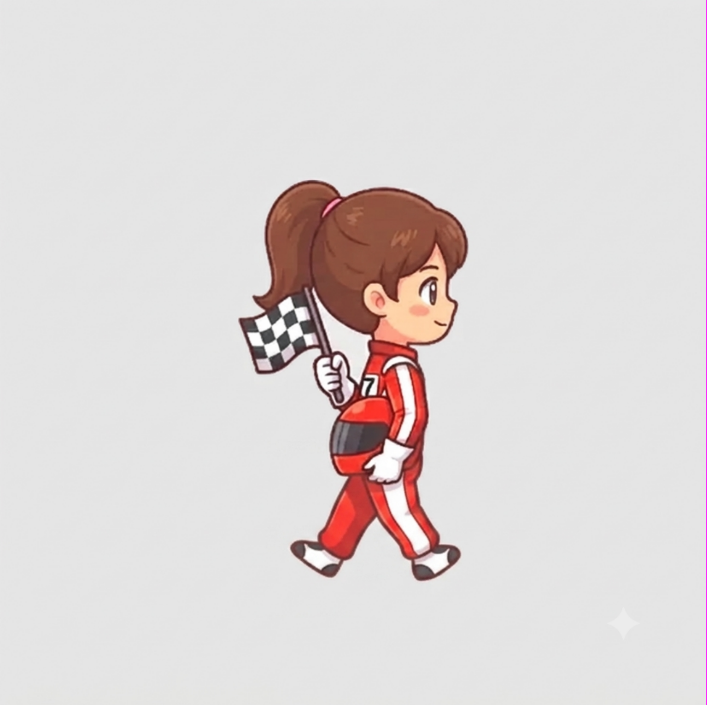
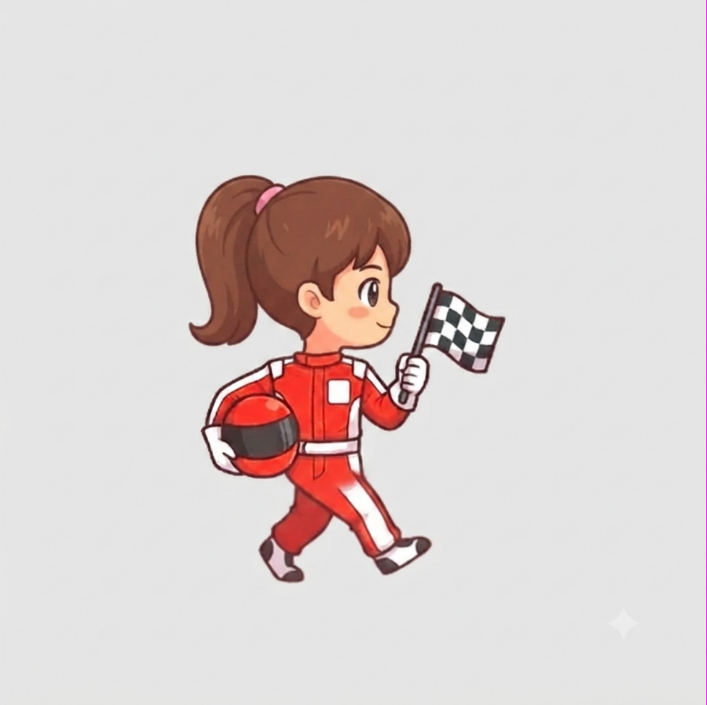
레이서 여자아이 옆모습 다시 만들기: 몸·다리·얼굴이 모두 같은 방향(남자 레이서 몸에 여자아이 머리)

Changed region(s): [[0.2489, 0.2496, 0.7157, 0.8426]]

diff --git a/js/data/character-sprites.js b/js/data/character-sprites.js
@@ -536,10 +536,10 @@ window.MP_CHAR_SPRITES = {
    "right": [
     461,
     4,
-    167,
-    291,
-    109.5,
-    291
+    228,
+    297,
+    92.2,
+    297
    ],
    "up": [
     233,
@@ -564,10 +564,10 @@ window.MP_CHAR_SPRITES = {
     "right": [
      461,
      4,
-     167,
-     290,
-     109.4,
-     290
+     228,
+     294,
+     93.5,
+     294
     ],
     "up": [
      233,
@@ -1451,4 +1451,4 @@ window.MP_CHAR_SPRITES = {
   }
  }
 };
-window.MP_CHAR_VER = '20261119104636';
+window.MP_CHAR_VER = '20261119105327';
